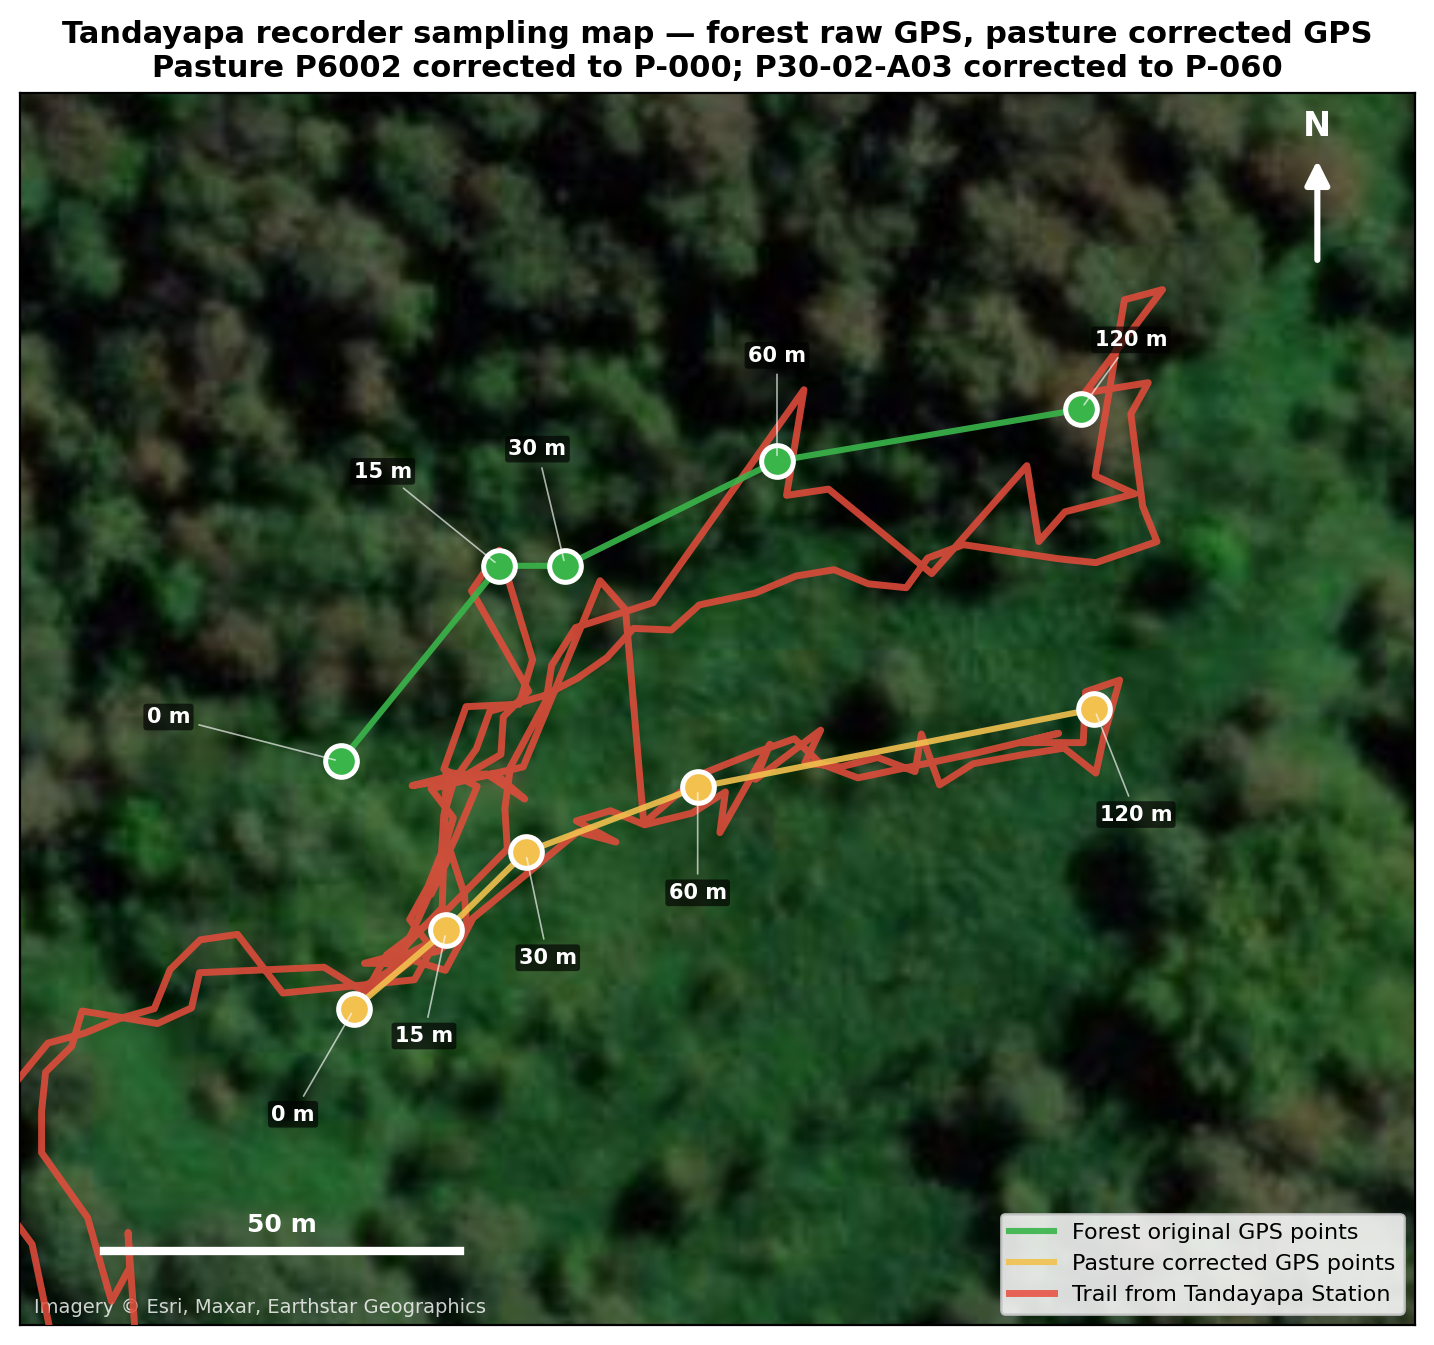
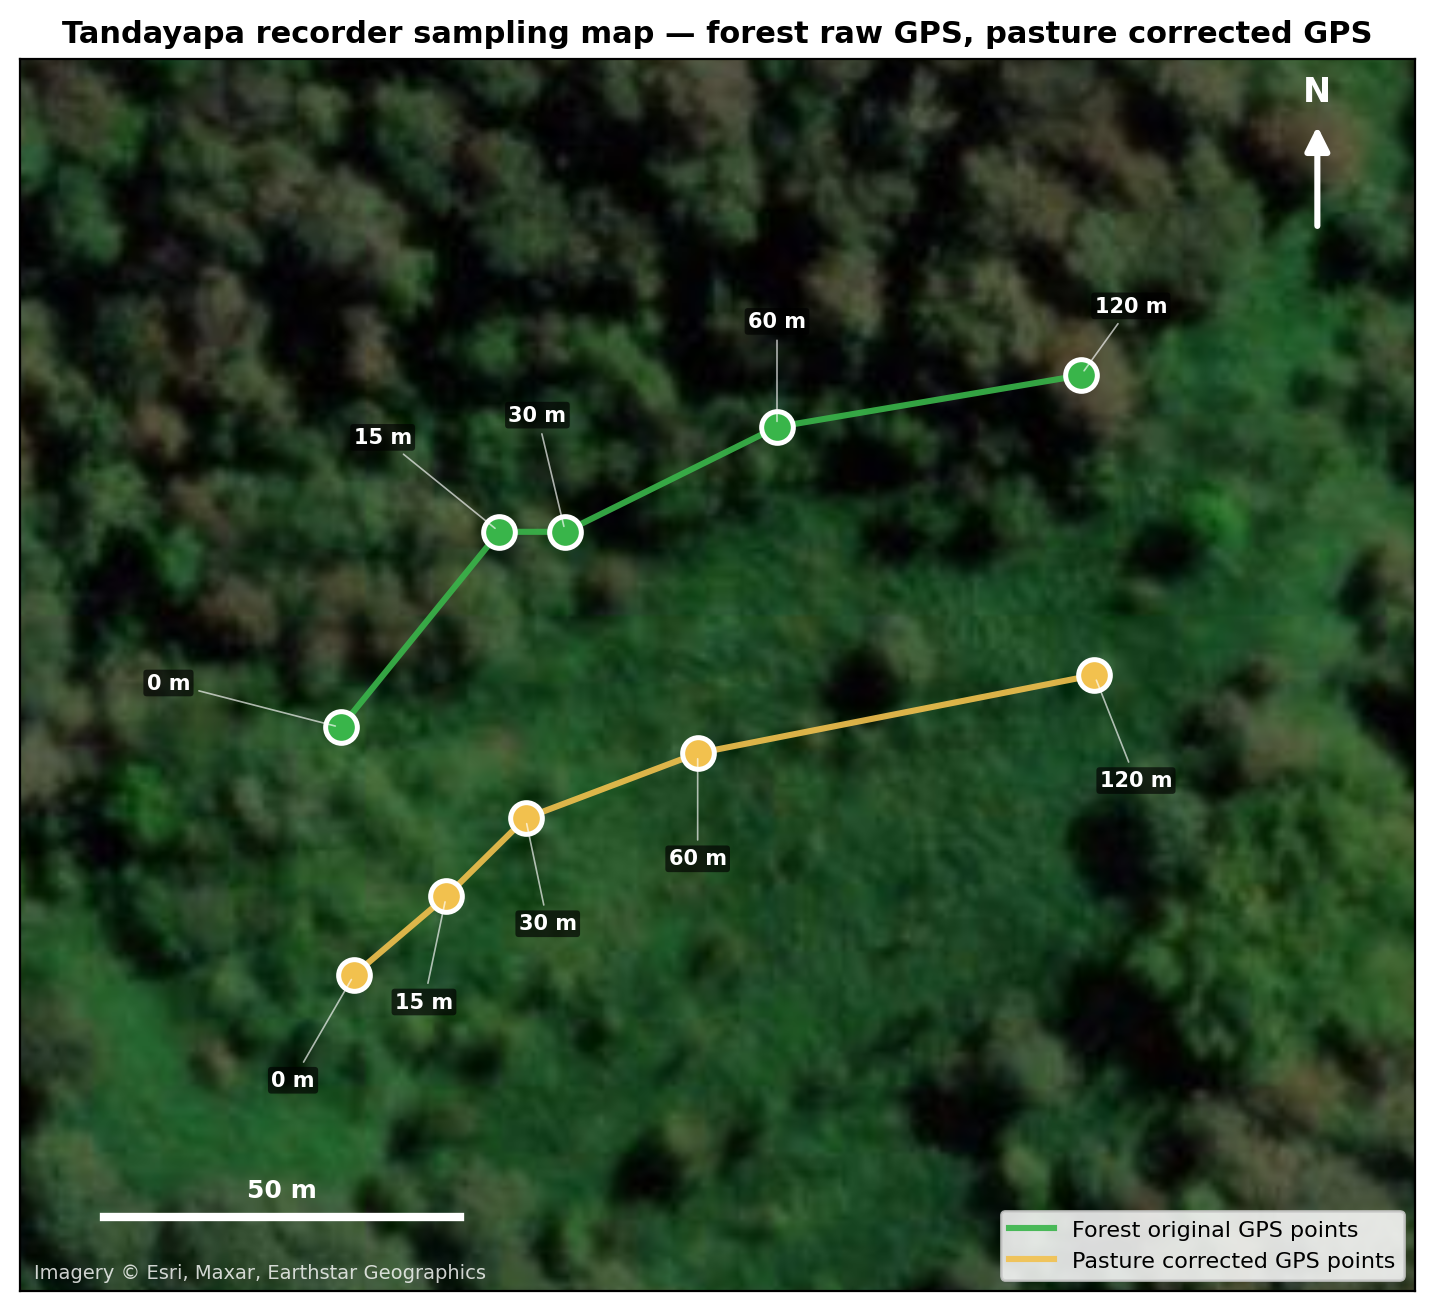
Generate two separate map figures: points-only and trail map
- sampling_gps_points.png: just the sampling points (forest + pasture), no trail
- sampling_trail_map.png: full trail with one blue point at center labeled Study area
- Renumber all figures in the report (Fig 1-2 maps, Fig 3-7 results)
- Re-render Word report

diff --git a/analysis/make_sampling_map_hybrid.py b/analysis/make_sampling_map_hybrid.py
@@ -24,9 +24,10 @@ import pandas as pd
 ROOT = Path(__file__).resolve().parent.parent
 GPS = ROOT / "data" / "raw" / "gps" / "tandayapa_gps_waypoints.csv"
 TRAIL = ROOT / "data" / "raw" / "gps" / "tandayapa-audiomoths-experiment.gpx"
-OUT = ROOT / "outputs" / "analysis" / "sampling_gps_points.png"
+OUT_POINTS = ROOT / "outputs" / "analysis" / "sampling_gps_points.png"
+OUT_TRAIL = ROOT / "outputs" / "analysis" / "sampling_trail_map.png"
 R = 6378137.0
-COLS = {"forest": "#39B54A", "pasture": "#F2C14E", "trail": "#E74C3C"}
+COLS = {"forest": "#39B54A", "pasture": "#F2C14E", "trail": "#E74C3C", "study_area": "#3498DB"}
 
 
 def merc(lon, lat):
@@ -78,7 +79,20 @@ def main() -> None:
     ], ignore_index=True)
     plot["x"], plot["y"] = merc(plot["lon_dd"], plot["lat_dd"])
 
-    fig, ax = plt.subplots(figsize=(9, 8))
+    # Compute study area center (centroid of all points)
+    center_x = plot["x"].mean()
+    center_y = plot["y"].mean()
+    center_lon = plot["lon_dd"].mean()
+    center_lat = plot["lat_dd"].mean()
+
+    # Parse trail
+    trail_lons, trail_lats = [], []
+    if TRAIL.exists():
+        trail_lons, trail_lats = parse_gpx_trail(TRAIL)
+    trail_x, trail_y = merc(trail_lons, trail_lats) if trail_lons else ([], [])
+
+    # === FIGURE 1: Points only (no trail) ===
+    fig1, ax1 = plt.subplots(figsize=(9, 8))
 
     label_offsets = {
         ("forest", 0): (-62, 16), ("forest", 15): (-42, 34), ("forest", 30): (-10, 42),
@@ -87,48 +101,83 @@ def main() -> None:
         ("pasture", 60): (0, -38), ("pasture", 120): (15, -38),
     }
 
-    # Draw lines in nominal order, then points
     for hab, sub in plot.groupby("habitat"):
         sub = sub.sort_values("pos")
         color = COLS[hab]
-        ax.plot(sub["x"], sub["y"], "-", color=color, lw=2.2,
+        ax1.plot(sub["x"], sub["y"], "-", color=color, lw=2.2,
                 alpha=.9, zorder=5, label=("Forest original GPS points" if hab == "forest" else "Pasture corrected GPS points"))
-        ax.scatter(sub["x"], sub["y"], s=130, color=color, edgecolor="white", lw=1.8, zorder=6)
+        ax1.scatter(sub["x"], sub["y"], s=130, color=color, edgecolor="white", lw=1.8, zorder=6)
         for _, r in sub.iterrows():
             dx, dy = label_offsets.get((hab, int(r["pos"])), (0, 22))
-            ax.annotate(r["label"], (r["x"], r["y"]), xytext=(dx, dy), textcoords="offset points",
+            ax1.annotate(r["label"], (r["x"], r["y"]), xytext=(dx, dy), textcoords="offset points",
                         ha="center", va="center", fontsize=7.5, fontweight="bold", color="white",
                         arrowprops=dict(arrowstyle="-", color="white", lw=.6, alpha=.65),
                         bbox=dict(boxstyle="round,pad=0.16", fc="black", ec="none", alpha=.65), zorder=7)
 
     pad = 45
-    ax.set_xlim(plot["x"].min() - pad, plot["x"].max() + pad)
-    ax.set_ylim(plot["y"].min() - pad, plot["y"].max() + pad)
-    cx.add_basemap(ax, source=cx.providers.Esri.WorldImagery, zoom=18, attribution=False)
-
-    # Draw trail from GPX
-    if TRAIL.exists():
-        trail_lons, trail_lats = parse_gpx_trail(TRAIL)
-        trail_x, trail_y = merc(trail_lons, trail_lats)
-        ax.plot(trail_x, trail_y, "-", color=COLS["trail"], lw=2.5, alpha=.85, zorder=4, label="Trail from Tandayapa Station")
+    ax1.set_xlim(plot["x"].min() - pad, plot["x"].max() + pad)
+    ax1.set_ylim(plot["y"].min() - pad, plot["y"].max() + pad)
+    cx.add_basemap(ax1, source=cx.providers.Esri.WorldImagery, zoom=18, attribution=False)
 
     # scale and north
-    x0, x1 = ax.get_xlim(); y0, y1 = ax.get_ylim()
+    x0, x1 = ax1.get_xlim(); y0, y1 = ax1.get_ylim()
     bx = x0 + (x1 - x0) * .06; by = y0 + (y1 - y0) * .06
-    ax.plot([bx, bx + 50], [by, by], color="white", lw=3, zorder=8)
-    ax.text(bx + 25, by + (y1-y0)*.012, "50 m", color="white", ha="center", va="bottom", fontsize=9, fontweight="bold", zorder=8)
+    ax1.plot([bx, bx + 50], [by, by], color="white", lw=3, zorder=8)
+    ax1.text(bx + 25, by + (y1-y0)*.012, "50 m", color="white", ha="center", va="bottom", fontsize=9, fontweight="bold", zorder=8)
     nax = x1 - (x1-x0)*.07; nay = y1 - (y1-y0)*.14
-    ax.add_patch(FancyArrowPatch((nax, nay), (nax, nay + (y1-y0)*.09), arrowstyle="-|>", mutation_scale=18, color="white", lw=2.2, zorder=8))
-    ax.text(nax, nay + (y1-y0)*.10, "N", ha="center", va="bottom", color="white", fontsize=12, fontweight="bold", zorder=8)
+    ax1.add_patch(FancyArrowPatch((nax, nay), (nax, nay + (y1-y0)*.09), arrowstyle="-|>", mutation_scale=18, color="white", lw=2.2, zorder=8))
+    ax1.text(nax, nay + (y1-y0)*.10, "N", ha="center", va="bottom", color="white", fontsize=12, fontweight="bold", zorder=8)
 
-    ax.set_xticks([]); ax.set_yticks([])
-    ax.set_title("Tandayapa recorder sampling map — forest raw GPS, pasture corrected GPS\n"
-                 "Pasture P6002 corrected to P-000; P30-02-A03 corrected to P-060", fontsize=11, fontweight="bold")
-    ax.legend(loc="lower right", framealpha=.86, fontsize=8)
-    ax.text(.01, .01, "Imagery © Esri, Maxar, Earthstar Geographics",
-            transform=ax.transAxes, fontsize=7, color="white", alpha=.8)
-    fig.savefig(OUT, dpi=200, bbox_inches="tight")
-    print("wrote", OUT)
+    ax1.set_xticks([]); ax1.set_yticks([])
+    ax1.set_title("Tandayapa recorder sampling map — forest raw GPS, pasture corrected GPS", fontsize=11, fontweight="bold")
+    ax1.legend(loc="lower right", framealpha=.86, fontsize=8)
+    ax1.text(.01, .01, "Imagery © Esri, Maxar, Earthstar Geographics",
+            transform=ax1.transAxes, fontsize=7, color="white", alpha=.8)
+    fig1.savefig(OUT_POINTS, dpi=200, bbox_inches="tight")
+    print("wrote", OUT_POINTS)
+
+    # === FIGURE 2: Trail map with study area point ===
+    fig2, ax2 = plt.subplots(figsize=(10, 9))
+
+    # Draw trail
+    if len(trail_x) > 0:
+        ax2.plot(trail_x, trail_y, "-", color=COLS["trail"], lw=2.5, alpha=.85, zorder=4, label="Trail from Tandayapa Station")
+
+    # Draw one point at study area center
+    ax2.scatter([center_x], [center_y], s=200, color=COLS["study_area"], edgecolor="white", lw=2, zorder=6)
+    ax2.annotate("Study area", (center_x, center_y), xytext=(18, 18), textcoords="offset points",
+                ha="center", va="center", fontsize=9, fontweight="bold", color="white",
+                arrowprops=dict(arrowstyle="-", color="white", lw=.6, alpha=.65),
+                bbox=dict(boxstyle="round,pad=0.2", fc=COLS["study_area"], ec="white", alpha=.9), zorder=7)
+
+    # Set bounds to show full trail
+    if len(trail_x) > 0:
+        all_x = list(trail_x) + [center_x]
+        all_y = list(trail_y) + [center_y]
+    else:
+        all_x = [center_x]
+        all_y = [center_y]
+    pad2 = 80
+    ax2.set_xlim(min(all_x) - pad2, max(all_x) + pad2)
+    ax2.set_ylim(min(all_y) - pad2, max(all_y) + pad2)
+    cx.add_basemap(ax2, source=cx.providers.Esri.WorldImagery, zoom=17, attribution=False)
+
+    # scale and north
+    x0, x1 = ax2.get_xlim(); y0, y1 = ax2.get_ylim()
+    bx = x0 + (x1 - x0) * .06; by = y0 + (y1 - y0) * .06
+    ax2.plot([bx, bx + 50], [by, by], color="white", lw=3, zorder=8)
+    ax2.text(bx + 25, by + (y1-y0)*.012, "50 m", color="white", ha="center", va="bottom", fontsize=9, fontweight="bold", zorder=8)
+    nax = x1 - (x1-x0)*.07; nay = y1 - (y1-y0)*.14
+    ax2.add_patch(FancyArrowPatch((nax, nay), (nax, nay + (y1-y0)*.09), arrowstyle="-|>", mutation_scale=18, color="white", lw=2.2, zorder=8))
+    ax2.text(nax, nay + (y1-y0)*.10, "N", ha="center", va="bottom", color="white", fontsize=12, fontweight="bold", zorder=8)
+
+    ax2.set_xticks([]); ax2.set_yticks([])
+    ax2.set_title("Trail from Tandayapa Station to the study area", fontsize=11, fontweight="bold")
+    ax2.legend(loc="lower right", framealpha=.86, fontsize=8)
+    ax2.text(.01, .01, "Imagery © Esri, Maxar, Earthstar Geographics",
+            transform=ax2.transAxes, fontsize=7, color="white", alpha=.8)
+    fig2.savefig(OUT_TRAIL, dpi=200, bbox_inches="tight")
+    print("wrote", OUT_TRAIL)
     print("forest: raw/original GPS points plotted")
     print("pasture: corrected GPS points plotted (no red X markers)")
 